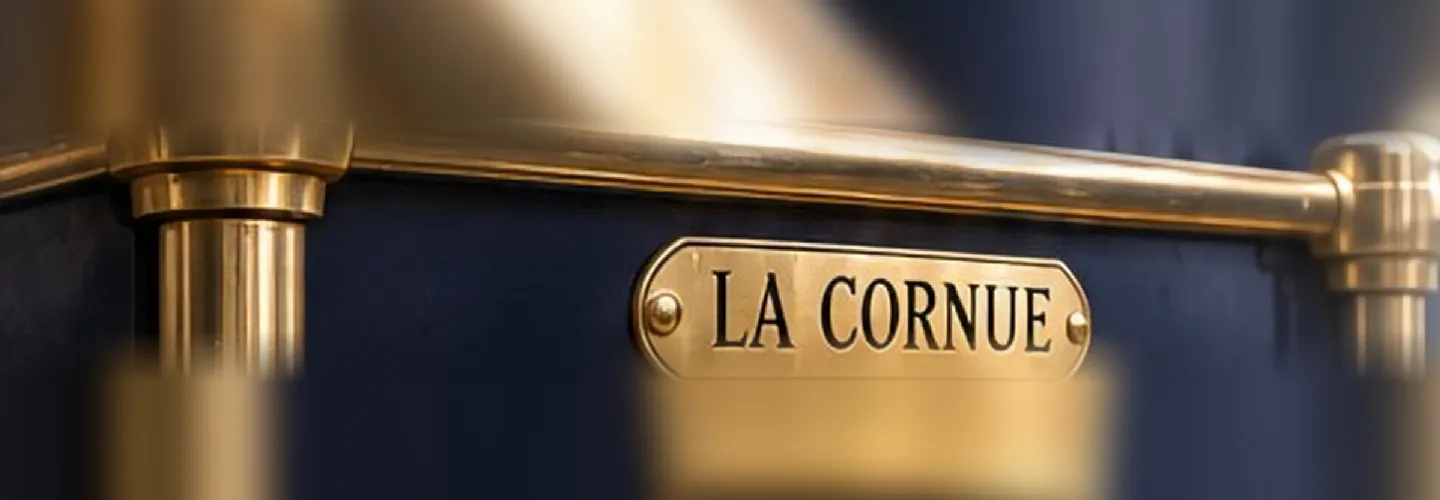
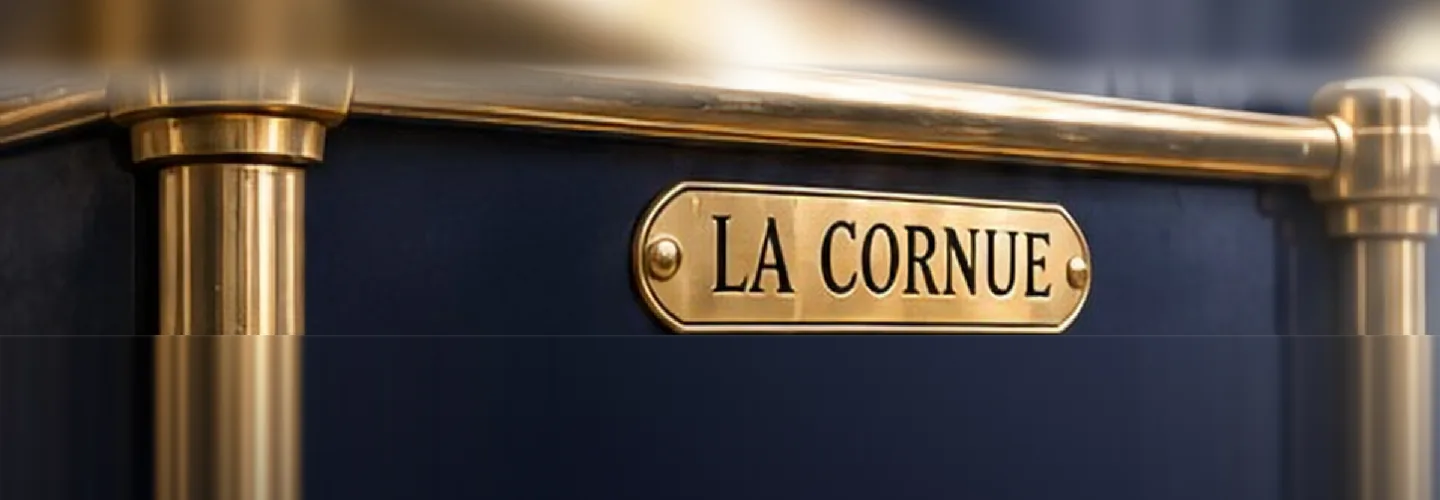
fix(ppc): review follow-ups for the brand landing pages
Hero
- Tablets (768-1023): text, Call button and form stay in the left 52%, so
  the appliance and its badge show whole in the photo column instead of
  being covered by the form; headline one size smaller there.
- Desktop: on the four refrigerator pages the sharp picture fades out
  before the form, which was cutting the door badge in half at some
  widths (shared FRIDGE class set in the page data).
- 320px: smaller headline and no rule after the eyebrow, so the Thermador
  headline takes three lines instead of four and the eyebrow stays on one.
- The third trust item goes to its own line on tablets as well.

Pictures
- La Cornue badge: rebuilt so the area under the nameplate is plain enamel
  with the brass posts carried down (it had two smeared patches).
- Miele hero: the misspelt lettering on the oven's control panel is
  painted out; the correct logo below it stays.
- Sub-Zero & Wolf badge stays whole at 1024 (focus moved right).
- Monogram closing band: the wordmark is whole from 1280 up; narrower
  screens show the doors and handles without a cut-off word.

Code
- Service cards show photos or drawings for the whole set, matching the
  panel shape; picture sizes and comments match the files.
- Header call link under 344px: 44px tap area without overlapping the
  Schedule button (no visual change).

Claude-Session: https://claude.ai/code/session_01WwiMgwcsYnt5yZxsxdvq1z

diff --git a/app/data/ppc_brand_landing.js b/app/data/ppc_brand_landing.js
@@ -22,6 +22,12 @@ const rating = { value: '4.9', count: '118' }
 const WOLF_RED = '#C2342D'
 const BRASS = '#B08D57'
 
+// Hero `imageClass` for an upright picture of a built-in refrigerator (see `hero` below).
+// These carry the brand badge on the right-hand door, which the form would cut in half on
+// desktop, so there the sharp picture is faded out before it reaches the form.
+const FRIDGE =
+  'object-[center_22%] md:object-[88%_30%] lg:max-xl:object-top xl:ml-[9%] xl:![mask-image:linear-gradient(to_right,transparent,black_12%,black_56%,transparent_65%)]'
+
 // The four trust points; only the technicians line differs per brand.
 const trustPoints = (technicians) => [
   { icon: 'calendar', title: 'Same-Day Appointments', text: 'Fast, flexible scheduling across the Bay Area' },
@@ -42,13 +48,14 @@ const faq = (intro, pairs) => ({
 })
 
 // Closing band: on desktop the brand's cta-left / cta-right photos sit at its two ends
-// and fade into the ink. `dir` is the brand's folder in assets/img/lp/brands.
-const cta = (brand, dir, schedule = brand) => ({
+// and fade into the ink. `dir` is the brand's folder in assets/img/lp/brands; `rightClass`
+// positions the right photo when its subject is not in the middle (e.g. 'object-right').
+const cta = (brand, dir, { schedule = brand, rightClass } = {}) => ({
   title: `Ready to Book Your ${brand} Repair?`,
   text: 'Get expert, local service from the Easy Fix Appliance Team. Same-day appointments available.',
   schedule: `Schedule Your ${schedule} Service`,
-  left: { src: photo(`${dir}/cta-left`), w: 900, h: 320 },
-  right: { src: photo(`${dir}/cta-right`), w: 880, h: 370 },
+  left: { src: photo(`${dir}/cta-left`), w: 900, h: 316 },
+  right: { src: photo(`${dir}/cta-right`), w: 844, h: 357, class: rightClass },
 })
 
 // "$99 Diagnostic Visit" band. Its left half is a close-up of the brand's badge on an
@@ -77,10 +84,12 @@ const diagnostic = (text, dir, alt, focus) => ({
 //                 headline and the form, xl:ml-[..] being its distance from the left edge of
 //                 the photo panel
 //   services      cards, which are also the options of the form's "Appliance / Brand" select.
-//                 `brand` + `type` go to the booking request and GTM and use the same words
-//                 as the general landing pages' form ("Wine Cooler", "Hood", "GE Monogram").
-//                 `art` is a drawing in Lp/ApplianceArt.vue, `accent` the colour of its knobs;
-//                 add `image` (imported photo, 16:10) to show a photo instead.
+//                 `brand` + `type` go to the booking request and GTM; they use the general
+//                 landing pages' words where one exists ("Wine Cooler", "Hood", "GE Monogram"),
+//                 otherwise a plain name ("Coffee System").
+//                 `image` is the card's picture (640×320). When any card of a page has none,
+//                 all its cards show their drawings instead: `art` is a drawing in
+//                 Lp/ApplianceArt.vue, `accent` the colour of its knobs.
 //                 `columns: 3` lays six cards out three across
 //   reviewsIntro  line under "What Bay Area Customers Say" (the reviews themselves are the
 //                 live Google reviews)
@@ -104,7 +113,7 @@ export const subzero = {
     image: photo('sub-zero-wolf/hero'),
     imageWidth: 966,
     imageHeight: 1274,
-    imageClass: 'object-[center_22%] md:object-[88%_30%] lg:max-xl:object-top xl:ml-[9%]',
+    imageClass: FRIDGE,
   },
 
   trustPoints: trustPoints('Skilled in Sub-Zero & Wolf repair and diagnostics'),
@@ -125,7 +134,7 @@ export const subzero = {
 
   diagnostic: diagnostic(
     'Expert diagnostic and troubleshooting for your appliance issues.',
-    'sub-zero-wolf', 'Sub-Zero and Wolf badge on an appliance', 'object-[60%_center]',
+    'sub-zero-wolf', 'Sub-Zero and Wolf badge on an appliance', 'object-[88%_center]',
   ),
 
   reviewsIntro: 'Trusted by homeowners across the Bay Area for expert service and lasting results.',
@@ -149,7 +158,7 @@ export const subzero = {
     ],
   ]),
 
-  cta: cta('Sub-Zero & Wolf', 'sub-zero-wolf', 'Sub-Zero'),
+  cta: cta('Sub-Zero & Wolf', 'sub-zero-wolf', { schedule: 'Sub-Zero' }),
 }
 
 // ============ Miele ============
@@ -236,7 +245,7 @@ export const thermador = {
     image: photo('thermador/hero'),
     imageWidth: 1044,
     imageHeight: 1254,
-    imageClass: 'object-[center_22%] md:object-[88%_30%] lg:max-xl:object-top xl:ml-[13%]',
+    imageClass: FRIDGE,
   },
 
   trustPoints: trustPoints('Skilled in Thermador repair with years of hands-on experience'),
@@ -302,7 +311,7 @@ export const viking = {
     image: photo('viking/hero'),
     imageWidth: 1044,
     imageHeight: 1254,
-    imageClass: 'object-[center_22%] md:object-[88%_30%] lg:max-xl:object-top xl:ml-[9%]',
+    imageClass: FRIDGE,
   },
 
   trustPoints: trustPoints('Skilled in Viking appliance repair and diagnostics'),
@@ -368,7 +377,7 @@ export const monogram = {
     image: photo('monogram/hero'),
     imageWidth: 1044,
     imageHeight: 1254,
-    imageClass: 'object-[center_22%] md:object-[88%_30%] lg:max-xl:object-top xl:ml-[9%]',
+    imageClass: FRIDGE,
   },
 
   trustPoints: trustPoints('Skilled in Monogram repair and diagnostics'),
@@ -413,7 +422,9 @@ export const monogram = {
     ],
   ]),
 
-  cta: cta('Monogram', 'monogram'),
+  // The wordmark sits at the right edge of the right photo: shown whole from xl up; the
+  // narrower column below that shows the doors and handles without it.
+  cta: cta('Monogram', 'monogram', { rightClass: 'lg:max-xl:object-[38%_center] xl:object-right' }),
 }
 
 // ============ La Cornue ============

diff --git a/app/components/Lp/BrandLandingPage.vue b/app/components/Lp/BrandLandingPage.vue
@@ -47,13 +47,14 @@
         </div>
 
         <div class="relative mx-auto max-w-screen-xl px-5 sm:px-6 lg:px-8 pt-6 pb-9 md:pt-10 md:pb-12 lg:py-14 xl:py-[4.5rem] grid lg:grid-cols-12 gap-6 lg:gap-8 items-center">
-          <!-- Below lg the hero is one column: text, button and form share the same edges. -->
-          <div class="w-full md:max-lg:max-w-xl lg:col-span-7 xl:col-span-6">
+          <!-- Below lg the hero is one column: text, button and form share the same edges
+               (on tablets that column sits left of the photo). -->
+          <div class="w-full md:max-lg:max-w-[52%] lg:col-span-7 xl:col-span-6">
             <p class="flex items-center gap-4 font-montserrat text-[10px] lg:text-[11px] font-semibold uppercase tracking-[0.3em] text-brass-dark max-lg:text-[#7A5E33]">
               {{ page.hero.eyebrow }}
-              <span class="h-px w-12 lg:w-16 bg-brass/70" aria-hidden="true"></span>
+              <span class="h-px w-12 lg:w-16 bg-brass/70 max-[359px]:hidden" aria-hidden="true"></span>
             </p>
-            <h1 :class="[lpHeadline, 'mt-3 lg:mt-4 max-w-[10.5em] lg:max-w-[9.6em] text-primary text-[2rem] min-[390px]:text-[2.15rem] sm:text-[2.75rem] lg:text-[2.9rem] xl:text-[3.25rem] leading-[1.07]']">
+            <h1 :class="[lpHeadline, 'mt-3 lg:mt-4 max-w-[10.5em] lg:max-w-[9.6em] text-primary text-[2rem] max-[359px]:text-[1.85rem] min-[390px]:text-[2.15rem] sm:text-[2.75rem] md:max-lg:text-[2.25rem] lg:text-[2.9rem] xl:text-[3.25rem] leading-[1.07]']">
               <LpText :text="page.hero.title" />
             </h1>
             <!-- The space is written out: the compiler drops a line break between two tags. -->
@@ -69,8 +70,8 @@
               <!-- A divider is dropped at the widths where the item after it wraps to a new line. -->
               <li class="h-3 w-px bg-primary/25 max-[359px]:hidden" aria-hidden="true"></li>
               <li class="max-[359px]:basis-full">Licensed &amp; Insured</li>
-              <li class="h-3 w-px bg-primary/25 max-[519px]:hidden lg:max-xl:hidden" aria-hidden="true"></li>
-              <li class="max-[519px]:basis-full lg:max-xl:basis-full">OEM Parts &amp; Repair Warranty</li>
+              <li class="h-3 w-px bg-primary/25 max-[519px]:hidden md:max-xl:hidden" aria-hidden="true"></li>
+              <li class="max-[519px]:basis-full md:max-xl:basis-full">OEM Parts &amp; Repair Warranty</li>
             </ul>
 
             <div class="mt-5 lg:mt-8 flex flex-col lg:flex-row gap-3">
@@ -90,7 +91,7 @@
                form, not a pop-up). Every Schedule button scrolls here. -->
           <div
             id="lp-form"
-            class="w-full md:max-lg:max-w-xl lg:col-span-5 xl:col-span-4 xl:col-start-9 scroll-mt-20 lg:scroll-mt-24 rounded-2xl transition-shadow duration-500"
+            class="w-full md:max-lg:max-w-[52%] lg:col-span-5 xl:col-span-4 xl:col-start-9 scroll-mt-20 lg:scroll-mt-24 rounded-2xl transition-shadow duration-500"
             :class="formFlash && 'ring-4 ring-brass/60 ring-offset-4'"
           >
             <LpLeadForm id-prefix="hero" location="hero" compact :phone="phone" :services="page.services.items" :variant="page.key" @call="onCall" @submitted="onSubmitted" />
@@ -126,7 +127,7 @@
           <li v-for="s in page.services.items" :key="s.label" class="overflow-hidden rounded-xl border border-primary/10 bg-white shadow-[0_1px_2px_rgba(10,35,51,0.05)]">
             <!-- Photos are wide (2:1); the drawings get a taller panel. -->
             <div class="flex items-center justify-center bg-[#F6F2EB]" :class="photoCards ? 'aspect-[2/1]' : 'aspect-[16/10]'">
-              <img v-if="s.image" :src="s.image" alt="" width="720" height="360" loading="lazy" decoding="async" class="w-full h-full object-cover" />
+              <img v-if="photoCards" :src="s.image" alt="" width="640" height="320" loading="lazy" decoding="async" class="w-full h-full object-cover" />
               <LpApplianceArt v-else :name="s.art" :accent="s.accent" class="h-[86%] w-auto text-primary" />
             </div>
             <p class="flex items-center justify-center min-h-[3.5rem] lg:min-h-[3.75rem] px-2 md:max-lg:px-1 py-2 text-center font-headline font-semibold text-[0.94rem] max-[343px]:text-[0.84rem] min-[430px]:text-[1rem] xl:text-[1.1rem] leading-[1.2] text-primary text-balance" :class="page.services.columns !== 3 && 'md:max-lg:text-[0.875rem]'">
@@ -207,7 +208,7 @@
         <!-- From lg up, a photo at each end that fades into the ink. -->
         <template v-for="side in ['left', 'right']" :key="side">
           <div class="hidden lg:block absolute inset-y-0 w-[24%] xl:w-[27%]" :class="side === 'left' ? 'left-0' : 'right-0'" aria-hidden="true">
-            <img :src="page.cta[side].src" alt="" :width="page.cta[side].w" :height="page.cta[side].h" loading="lazy" decoding="async" class="w-full h-full object-cover" :class="side === 'left' && 'object-left'" />
+            <img :src="page.cta[side].src" alt="" :width="page.cta[side].w" :height="page.cta[side].h" loading="lazy" decoding="async" class="w-full h-full object-cover" :class="side === 'left' ? 'object-left' : page.cta.right.class" />
             <div class="absolute inset-0" :class="side === 'left' ? 'bg-gradient-to-r from-ink/10 via-ink/55 to-ink' : 'bg-gradient-to-l from-ink/10 via-ink/55 to-ink'"></div>
           </div>
         </template>

diff --git a/app/components/Lp/Header.vue b/app/components/Lp/Header.vue
@@ -27,7 +27,7 @@
              tap area without moving anything. -->
         <a
           :href="`tel:${phone.tel}`"
-          class="flex items-center gap-1 md:gap-2.5 py-3 -my-3 max-[343px]:p-3 max-[343px]:-m-3"
+          class="flex items-center gap-1 md:gap-2.5 py-3 -my-3 max-[343px]:pl-6 max-[343px]:-ml-6 max-[343px]:pr-1.5 max-[343px]:-mr-1.5"
           data-cta="lp-call"
           @click="$emit('call', 'header')"
         >
